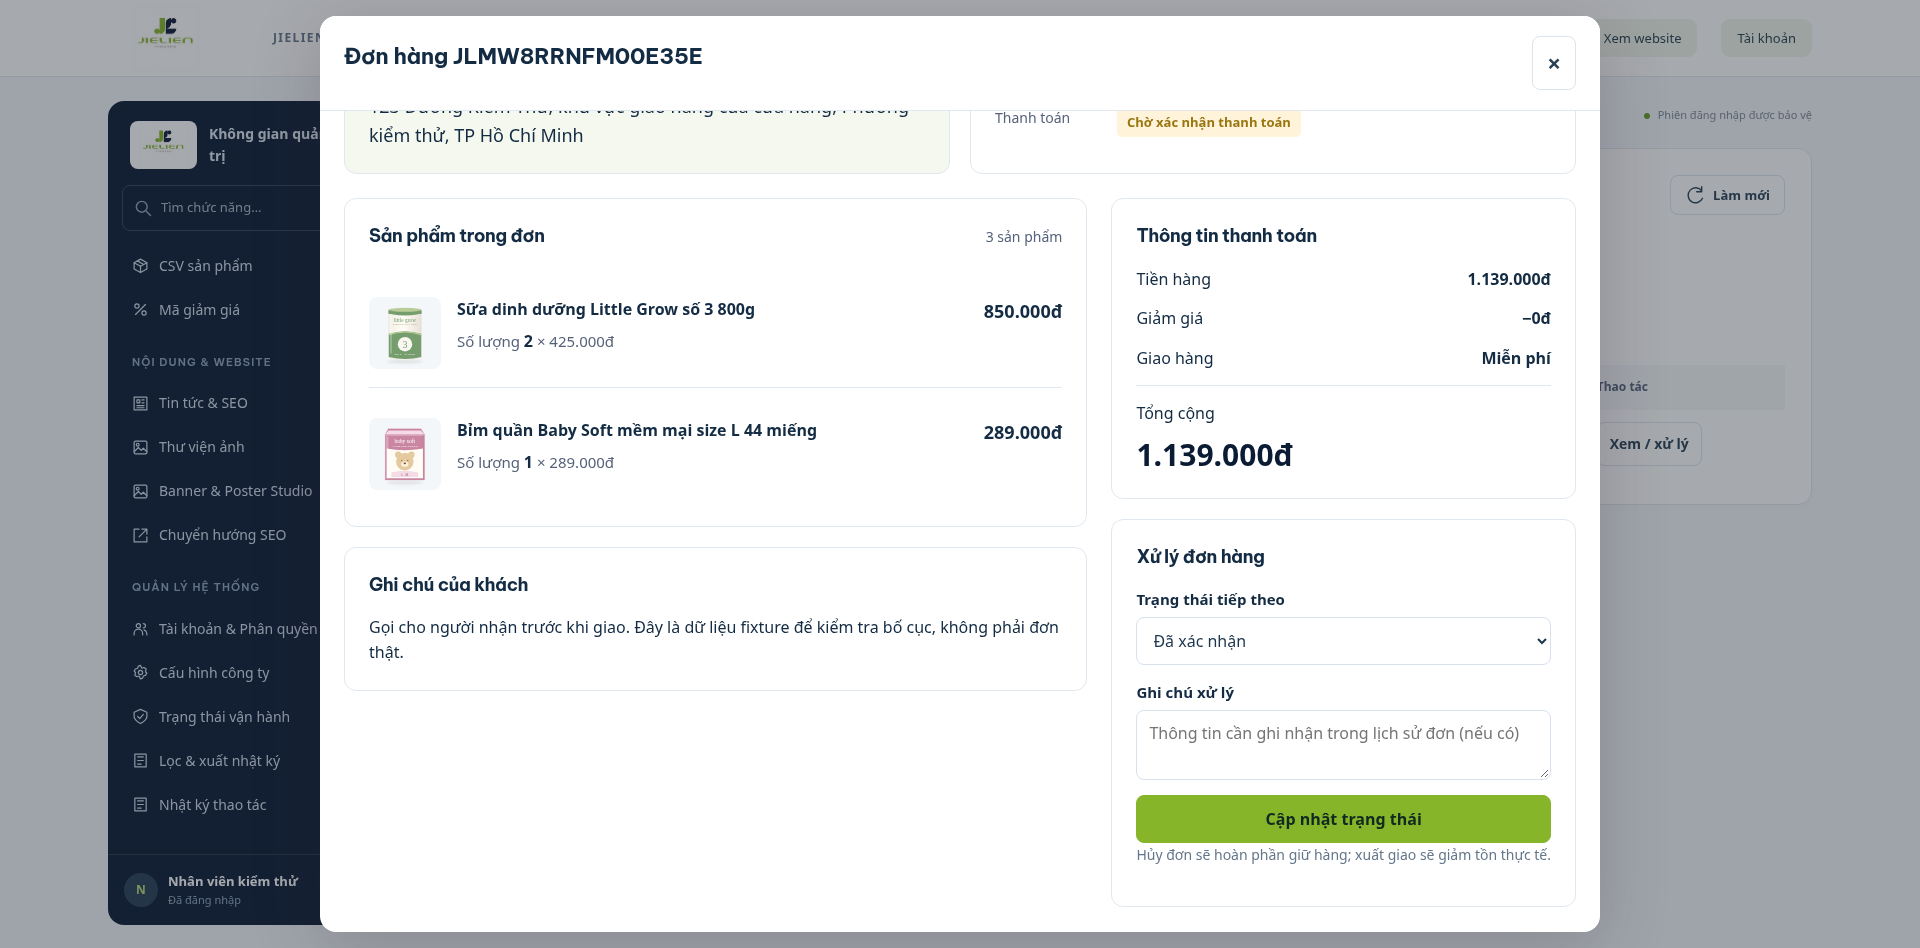
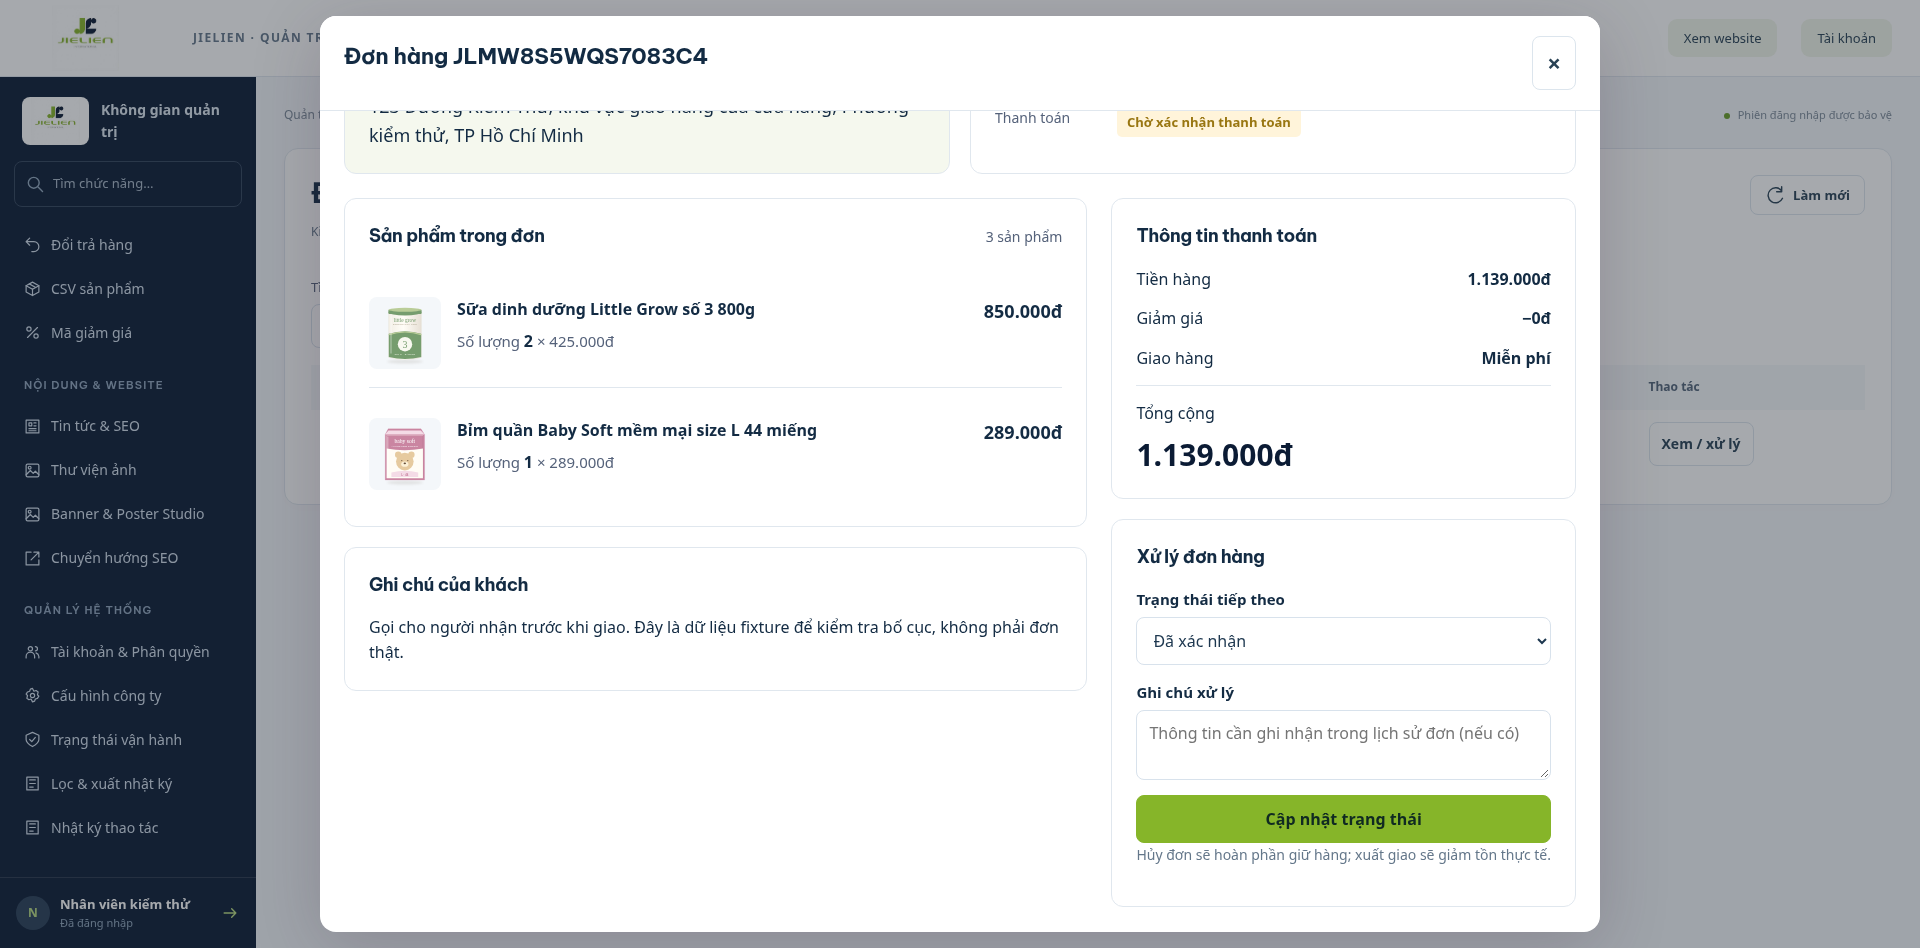
Attach desktop Admin navigation to viewport edge and remove outer gutters

diff --git a/public/admin-workspace.css b/public/admin-workspace.css
@@ -877,6 +877,32 @@
 .admin-workspace .section-caption {
   font-size: 11px;
 }
+/* Desktop workspace uses the full viewport; navigation attaches to the left edge. */
+@media (min-width: 901px) {
+  .admin-workspace {
+    --admin-header-height: 77px;
+  }
+  .admin-workspace .management-wrap {
+    max-width: none;
+  }
+  .admin-workspace .management-header {
+    position: sticky;
+    top: 0;
+    z-index: 20;
+  }
+  .admin-workspace .admin-main.management-wrap {
+    margin: 0;
+    padding: 0;
+  }
+  .admin-workspace .admin-sidebar {
+    top: var(--admin-header-height);
+    height: calc(100dvh - var(--admin-header-height));
+    border-radius: 0;
+  }
+  .admin-workspace .workspace-main {
+    padding: 24px 28px 40px 0;
+  }
+}
 @media (max-width: 1200px) {
   .admin-workspace .admin-layout {
     grid-template-columns: 224px minmax(0, 1fr);

diff --git a/docs/ADMIN_ORDER_LAYOUT.md b/docs/ADMIN_ORDER_LAYOUT.md
@@ -11,3 +11,5 @@ Kiểm tra: `npm run test:admin-layout` dùng đơn/khách fixture, assert menu/
 Sau khi cập nhật Git: `git pull --ff-only origin main`, `npm run local:start`, Ctrl+F5. Không cần migration, reset volume hoặc tạo lại tài khoản.
 
 Kết quả lượt sửa: management 11, usability 9, commerce 13, admin-access 6 nhóm pass; test layout đạt cả 5 viewport, kiểm cả mở lại đơn bắt đầu từ đầu. Không chạy lại toàn bộ API vì không thay luồng dữ liệu/validation. Đã mở xem ảnh desktop/mobile và sửa vị trí cuộn, cỡ chữ số lượng/đơn giá.
+
+Cập nhật theo phản hồi mép trái: desktop dùng toàn bộ chiều ngang viewport, menu x=0 sát mép trái, bắt đầu ngay dưới header (76px nội dung + 1px viền) và kéo đến đáy màn hình; bỏ khung bo góc/lề ngoài của sidebar. Nội dung vẫn có padding bên trong để dễ đọc. Mobile giữ menu thu gọn. Regression test kiểm x=0 và không có khoảng hở giữa header/sidebar.
